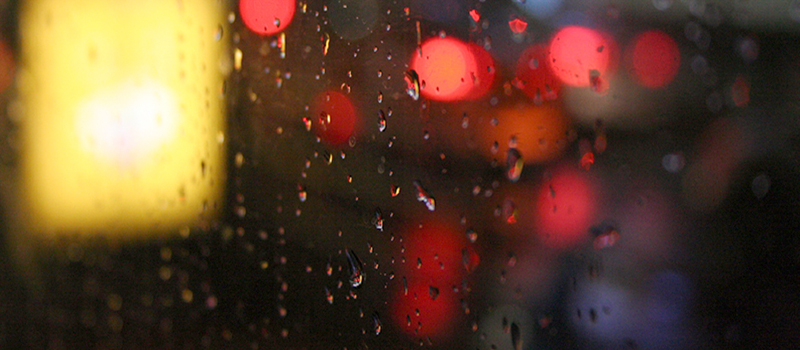
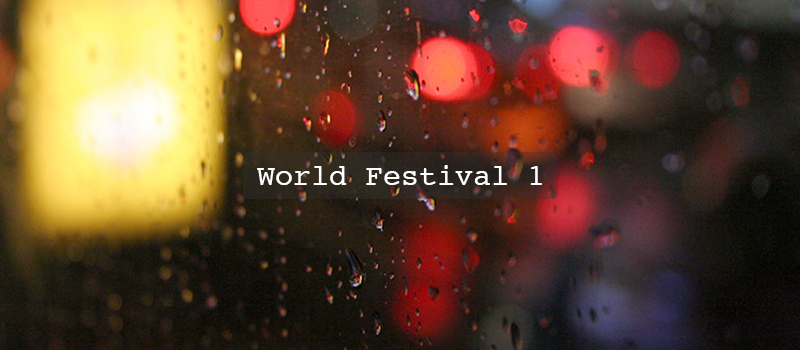
기출 01회: 슬라이드 이미지 제작 추가

Changed region(s): [[0.3125, 0.4286, 0.7188, 0.5714]]

diff --git a/exams/exam01/css/style.css b/exams/exam01/css/style.css
@@ -82,17 +82,6 @@ header {
   width: 100%;
   height: 100%;
 }
-.rightContents > span {
-  position: absolute;
-  padding: 10px 20px;
-  background-color: #333;
-  opacity: 0.8;
-  border-radius: 10px;
-  text-align: center;
-  color: white;
-  top: 25%;
-  left: 42%;
-}
 
 /* contents */
 .contents {

diff --git a/exams/exam01/index.html b/exams/exam01/index.html
@@ -58,7 +58,6 @@
         <a href="#"><img src="images/img2.jpg" alt="2" /></a>
         <a href="#"><img src="images/img3.jpg" alt="3" /></a>
       </div>
-      <span>World Festival</span>
       <div class="contents">
         <div class="notice">
           <h3>공지사항</h3>
